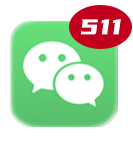
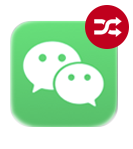
add random vx

Changed region(s): [[0.5113, 0.0268, 0.9925, 0.349]]

diff --git a/utils.js b/utils.js
@@ -1,0 +1,24 @@
+
+/* When the user clicks on the button,
+toggle between hiding and showing the dropdown content */
+function showDD() {
+  document.getElementById("myDropdown").classList.toggle("show");
+}
+function randomVx () {
+  		var items=['4559974829656415','4597692016366069','4595937031491205','4594105130682426','4590670364552301','4586890688729138','4585777566845049','4585621727484842','4582867449683182','4580305589774023','4579633901079340','4558200030630605','4557907380930701','4557794135509527','4556111556644636','4555322099764117','4552091177593052','4550964810359278','4548101404628915','4548085017746680','4546972927394505','4546611055961159','4545545572455506','4545197859674645','4544802803160624','4544648661438239','4543725680996198','4543034441613589','4541937942797151','4540078817548855','4536752045299424','4535774496950625','4534318896778157','4533416135498423','4532878597950344','4531752913346843','4530664826744150','4530234331764901','4528838530568005','4528385088292166','4527785802730746','4525990824578760','4524521564568653','4523458044407425','4523084977494225','4522719927206218','4521288725369626','4520206356392399','4519484986368207','4519416900209368','4518752747799838','4518010435943772','4516114174153366','4515125996491149','4513319841887167','4512450785971263','4511487845217879','4510412945931958','4510038620842489','4508239591542923','4508224717489013','4508185283468884','4506789749657235','4506599244698949','4505332712084186','4504500658223080','4503192534758672','4503124633186220','4502747921919899','4502280878307928','4500585460673516','4500227086337761','4499002861478791','4498721352146357','4497931275468084','4496991964460815','4495195082975316','4494670577509121','4494434076964515','4492627325851829','4491891456463977','4489279306748657','4486333978062886','4486114117113837','4485010876878676','4484266551483508','4481746084809581','4481676023596874','4481633199295315','4479863869860474','4476598004591920','4476300854658173','4476249889794908','4473309251433805','4467213220004048','4462068415676650','4461381707220440','4460936758429436','4457150300394187','4455607790466174','4453515647189589','4452295545149661','4452064127829924','4449509583537907','4447335029230690','4445896534578442','4445144424186183','4445110126808894','4440811435919320','4440774261283783','4439321706407442','4438658750918400','4434668931727712','4433595864723797','4431737511952006','4431692288715509','4430616709354039','4429160451225483','4427986352798104','4427788477639136','4427620076538008','4425835266452487','4424859091981112','4422306815971493','4420549763343366','4419753265006041','4419054041217183','4416157748064849','4415447564392318','4414334099052656','4412925588459044','4412869879483661','4412527481465187','4412080771678068','4410714133440571','4410364462194337','4408199974947132','4407466878480972','4406049941096826','4402783551244615','4401307840484740','4400586739203697','4399523000399459','4399184893013526','4398968349870272','4398838787392953','4398794617350920','4397942670838808','4396910036843605','4396561448142788','4395497605289776','4395179941181995','4393012022912645','4392614184599345','4391909306512666','4391546767911224','4390835132952352','4390108432040180','4388653453045779','4388264704290976','4386414902779206','4385340720277866','4385338116291272','4385055768455257','4384645712019483','4382865011272712','4380849052910170','4380638402234089','4379204801790629','4378504856089529','4378364406390634','4377780583959564','4375609662842753','4373732959109860','4372369986294687','4372231712766179','4371954872011341','4370868819460822','4370569749413273','4370558495878865','4369780121251333','4367938947655158','4367567298638977','4365308364528002','4364220663460650','4363622718880132','4362787800785800','4360955108850022','4360610961247652','4359684184391305','4358578058260450','4357124794585731','4354209950023613','4354175817203827','4353508998804818','4352421054271892','4350530547927051','4350127231541809','4345857178224500','4344421505679036','4342930531654710','4340101091277287','4338523811204965','4336707153677904','4336704418904180','4335917194257029','4335321301295164','4333211204684970','4330664793167790','4330307484310304','4330227720553382','4329436964850758','4329055412672909','4328820855410756','4327965473497237','4327761692974808','4326697127716892','4325234062608881','4323801883274516','4323397301575229','4322997085123747','4321577023212909','4320868592978799','4319660462285028','4319420434277247','4317996044847520','4317084747474386','4316003162624889','4314967668705730','4313655052740135','4313415037731848','4312469252324530','4311791796384908','4310391859419621','4309599294696291','4307730569070938','4307449345151748','4306253553266960','4305267275042105','4303471412495090','4302003113038006','4299858925577510','4299086339353408','4297249531439880','4296240919142022','4295493742057421','4295463236438207','4293666811825191','4292575055722828','4291481068066042','4290806300383408','4290253356854479','4289742264566957','4289675168890481','4287903402120166','4286818449428723','4284287861858373','4283835325631638','4281726781798173','4281364884463845','4280546693022525','4278854082373610','4277012740495572','4275216408402947','4274478492056101','4273435201290747','4273392083677225','4271896834532445','4270844462765014','4269429618987697','4268663810765890','4267582155051641','4266911057089563','4266178106452674','4265369063458646','4264681637780541','4263921340673751','4263219255602899','4262431024322859','4261810246737259','4261808568535672','4261050599180568','4260364256197268','4260201790481442','4259889705083484','4259637736125478','4259593444307200','4258196425813872','4256747906183514','4256368611386547','4255951530188591','4254927125589025','4253470887920406','4252881014321612','4252395167351064','4252319552416439','4252030786340528','4250799863326700','4250495067068520','4248416454341170','4248020063266557','4246601088627844','4245814261972510','4245508165923996','4245422048837932','4243644200905731','4243643194173391','4243509814527808','4243274594528492','4241857179310545','4241126221177135','4240795483113146','4240029406843961','4239680239091045','4239657921370570','4238287604421474','4238286907954420','4238279090298850','4237849245063757','4236735682580490','4236067327990303','4235325909505951','4234942440932264','4234252499255902','4233505011922388','4232762862831567','4231710268417730','4231300426847355','4230955051326047','4229898337781296','4227592900590736','4227591345131928','4227363250369966','4226931170191786','4226929152224244','4226896038922744','4226277848658139','4225895343921332','4225868207051235','4225220178482068','4223388392557875','4222281783912546','4221877985629586','4220839119716048','4219746842530869','4219053650822700','4217580002645625','4217214384489303','4216149463656167','4214332449956665','4212903336640033','4212039733805460','4211784308966178','4211029145868697','4209604600303763','4208850872292970','4208116692336192','4207385209634947','4206612119662452','4206011210089412','4205248761006036','4204166962102137','4203099835445637','4200583869130322','4200466621078541','4200210701759812','4199468636900833','4199080206571536','4198381506953517','4196213664226959','4195503317292629','4194028130636006','4192199136498044','4191133711553585','4190396093308703','4188590176922651','4188482928641272','4187896422179942','4185709734408321','4185220070659060','4184564760548895','4184216042192294','4183167064278872','4182449254154957','4181705076365508','4180598740124221','4179165801939038','4177749821629011','4177629538009469','4177365598887665','4175563582992074','4174671115097430','4174499568016077','4174297188746708','4173983504937279','4172598143870429','4172489414081181','4170461249840165','4169047832405445','4167939093214152','4167579247627638','4166869453874541','4166467291363561','4163817430129881','4163816557810299','4163181683451222','4161743918319625','4160696109081049','4159252798698685','4158840486224763','4158730436309404','4158108923900982','4157452234835817','4156924797298727','4156240097434493','4155890863230865','4155270102380218','4154139321478765','4152713295455404','4151986091273677','4151638178645707','4150509721633044','4150496346233061','4148889101455706','4147585470298587','4146581865256084','4145796293556719','4145023513595783','4143925151539928','4141862904505569','4141480648507982','4140029163165524','4139692653975802','4138944901856766','4138578383000274','4138216783163394','4137478191117004','4136765898477355','4135666578836561','4135317139504332','4134976334910463','4133858246850856','4133456852254788','4132054445069775','4130619816095669','4129519012808238','4128822376772931','4128068543397319','4127697016143424','4126993907741870','4125907709289317','4124840916585728','4124466139036444','4123720123653756','4122876124611756','4118669128581267','4118284788428347','4117536477580749','4115763646411926','4114913104353112','4114658857696842','4114328573145339','4112363856103857','4110321209233968','4107047094643343','4106310624110183','4106007850348448','4105101678965378','4104139526726253','4102016236063452','4101608498908189','4097619078253718','4095973950852365','4094026728166680','4092581891544089','4091445956531748','4091124392530074','4090968720263695','4090607293673795','4089531646466287','4087467139212794','4086383347488906','4085308667194737','4084931321342874','4083839699696599','4082427103942839','4081293425204083','4077339685958987','4076262736032650','4074424607681720','4073988143808108','4073018655109921','4072879484573149','4070840561734085','4069365441689047','4069021508858380','4068632243511961','4068291439327496','4067558426299014','4067557918779090','4066847969823337','4066131285150289','4065752715282847','4064899183038324','4064504470032921','4063909477968207','4063878477844563','4063239261864169','4063052829282043','4062106594972044','4061416925307311','4060633009358114','4059531808003781','4058876401610532','4055951742965935','4054098141302950','4053414269375039','4053412959974297','4048344105832081','4047820203304446','4044724266175963','4044007861968939','4040787719064687','4038576431264579','4036784604812000','4032902750158922','4031956158662588','4030590551927801','4029896264575997','4027291573005079','4025512538293065','4024806501855450','4024064739389033','4023357081205194','4022234605862096','4021579811605901','4020374893157689','4020084105776723','4018999697942678','4018308703601549','4018173504176526','4016083653911489','4015030120625172','4013973253046401','4013889039060990','4013854633026753','4013219959592688','4012894586725254','4011393415480743','4011005769658714','4010650651167721','4009595279691663','4009062108816955','4008454765080089','4008355142466021','4007408810873304','4006686517224715','4006289090526860','4004844605987788','4004147827173514','4003384849487406','4001487707910408','4001151860455265','4000880300500750','4000534211526711','3999468758609785','3999077224302146','3997975283485322','3997272309636259','3996163264239507','3995772540787434','3995284977939506','3994931976552081','3994619404014342','3994346665323511','3994293288441974','3993254145989936','3992430145433717','3990998620636159','3990490163066143','3989578002123357','3989266738373627','3988154694244301','3988089829192979','3987822417238926','3987797347779058','3986679318125455','3985997857462486','3984557012916330','3983492892644285','3982703542259988','3981929080641221','3981617112041049','3981278170461965','3979502105227232','3979337545321060','3978979154919645','3977246944927711','3975901195263981','3975163420325556','3974755713251993','3974359535713837','3974065817292498','3972926207989263','3971857940205408','3970677465908844','3970001574244198','3968705534765274','3967484123646627','3967407414436854','3967158230245270','3966858518116213','3966406339067376','3965588617056671','3964126470004309','3963714090398487','3962352501591767','3962048339121177','3961382149693865','3960995690379480','3960122290174137','3959440790923118','3959410683913010','3958119103063636','3957991290083016','3956601821766662','3955447713056694','3954836807896835','3954387124214957','3953793525848953','3951613057524795','3951085019945455','3950478125031378','3948553233262754','3948272836594452','3947621217383401','3947255788276272','3946894974144964','3945429136065386','3944598771987366','3944002207876755','3943221278970808','3942496695818292','3941731025993599','3940341075300360','3940256593493805','3940006135081407','3939985578546952','3939579087664524','3939091546471167','3938209408879425','3937845544405429','3937467906545208','3937113340745843','3936389223857006','3935916437488591','3935287186773837','3934789830501548','3934569802062731','3934357846621285','3934216733261984','3933918493620914','3933900236031786','3933838650682833','3933491576096591','3933081427297659','3932593240393045','3932356479735564','3932019757223452','3931297401214373','3930941279902240','3930938830246455','3930603642600348','3930120366949177','3929789880313480','3929741679222473','3929167118968685','3929090312574501','3928789371773436','3928386613008512','3928042919567570','3928025152397100','3926904472170797','3926233521763789','3925145301220654','3924558492923662','3924412400748485','3924093331633492','3922909666088857','3920348641134036','3919641568660633','3918198468108602','3918197545465964','3917476821813199','3916805321535224','3916432406386310','3916103329703310','3913946089756582','3913203014337756','3912032942248020','3911014648814103','3910628261444827','3910289323615757','3909435040383203','3909108715391448','3908339245198097','3907748909265872','3907247652340817','3906917418089182','3906670729670751','3906595022886431','3905618681170446','3904460637662286','3904127945675793','3902831154923689','3901871011412497','3900504155589082','3899396464605764','3897908593906023','3897794349393560','3897790201110368','3896892612050020','3893074910883574','3891803578836435','3890988450096887','3889948828348800','3889469465601855','3888454418726152','3888129385265601','3887048987080759','3884887939397615','3883818119140218','3883478938156181','3883157961456974','3881769348460759','3876584559698121','3875432598435806','3874785727130072','3874781692379594','3874690348901628','3871029451262606','3870758419788549','3870444085699036','3869945651569200','3869345254131978','3869303516242150','3867900165403913','3867032732939870','3866075844696568','3864982179675853','3864051199073705','3862860331611675','3858776732296004','3855902530846656','3855587937111316','3852288001206719','3842102762908281','3838920612097261','3836971744814029','3833133550327975','3832894344261825','3832557776860603','3832022046993571','3830914951454855','3830559744525716','3830398645437866','3830398532095277','3829814304015457','3828398805644897','3827271238784988','3826940299597773','3826415767730416','3826133428343235','3825330495859983','3824247610828267','3821047164430493','3820732708652268','3820049124597479','3816414605853191','3814237946576674','3812773777408153','3807384810240293','3802262486797920','3800854810983068','3798664227347300','3798567459803950','3797942425592669','3797925362938274','3797411862248294','3796524276723375','3796128778934078','3793998089214046','3793222973699750','3792173575107240','3786703871454722','3786015431358725','3784908898156205','3780563469013710','3779117322894995','3777294001086054','3774442780026131','3770331682185912','3766821994158038','3766819548661860','3760613862157946','3759873864579551','3758846969542744','3758845602196638','3754841501758044','3752643849178605','3751160852420922','3746494039438100','3742774069162009','3738156396333718','3737797980186937','3733429684737883','3731993281779168','3730586520328949','3726587603775938','3726445261638115','3724731792058784','3723634201722807','3720751934616294','3720124693307914','3718125566330683','3713350288845715','3709509338361454','3701182239490551','3700867800904298','3697227208192511','3694660100869503','3693911383543076','3692862791682761','3691798860372605','3688505806818129','3684810251831676','3684496060452013','3683102171397946','3672047697511697','3670788794413769','3670050207063825','3668254217740937','3656792393604256','3636647415091363','3633265375877850','3611983934969936','3602615193243346','3598501600320528','3571328240235023','3570583298132904','3569934355776755','3569130211091722','3566958002284172','3543194316328289','3543071884700708','3504048731106353'];
+    var item = items[Math.floor(Math.random() * items.length)];
+    return "https://m.weibo.cn/detail/"+item;
+}
+// Close the dropdown menu if the user clicks outside of it
+window.onclick = function(event) {
+  if (!event.target.matches('.dropbtn')) {
+    var dropdowns = document.getElementsByClassName("dropdown-content");
+    var i;
+    for (i = 0; i < dropdowns.length; i++) {
+      var openDropdown = dropdowns[i];
+      if (openDropdown.classList.contains('show')) {
+        openDropdown.classList.remove('show');
+      }
+    }
+  }
+}

diff --git a/index.html b/index.html
@@ -5,7 +5,8 @@
         <meta content="width=device-width, initial-scale=1, maximum-scale=1, user-scalable=0" name="viewport">
         <link rel="shortcut icon" href="favicon.ico" type="image/x-icon">
 		<title>Tako's Arcade</title>
-		<link rel="stylesheet" href="index.css?v=2" type="text/css">
+        <link rel="stylesheet" href="index.css?v=2" type="text/css">
+        <script type="text/javascript" src="/utils.js"></script>
 </head>
 <body style="background-color:#890822;">
     <script type="text/javascript">
@@ -21,26 +22,40 @@
                 document.title = "Tako's Arcade";
             }
         }
+        function goTo(src) {
+            document.getElementsByTagName('ol')[0].style.display = "none";
+            document.getElementsByTagName('ol')[1].style.display = "none";
+            document.getElementsByTagName('img')[0].src = "app/home.png";
+            document.getElementById('home-browser').src = src;
+            document.getElementById('home-browser').style.display = "block";
+        }
+        function goHome() {
+            document.getElementsByTagName('ol')[0].style.display = "grid";
+            document.getElementsByTagName('ol')[1].style.display = "grid";
+            document.getElementsByTagName('img')[0].src = "app/0511.png";
+            document.getElementById('home-browser').style.display = "none";
+        }
     </script>
 	<div class="container">
 		<div class="status-bar">
-            <div class="time"><img src="app/0511.png" /></div>
+            <div class="time" onclick="goHome();"><img src="app/0511.png" /></div>
             <div class="tako"><img src="app/tako.png" /></div>
 			<div class="battery">
 				
 				<div class="battery-body"></div>
 				<div class="battery-head"></div>
 			</div>
-		</div>
+        </div>
+        <iframe allow="autoplay" width=320 height=440 style="display:none;margin:auto auto;height:94vh;width:95vw;" id="home-browser"></iframe>
 		<ol>
 			<li>
-				<a href="https://weibo.com/u/3050783091"><img src="app/weibo.png" /></a>
+				<img src="app/weibo.png" onclick="goTo('https://m.weibo.cn/u/3050783091')"/>
 			</li>
 			<li>
-				<a href="https://space.bilibili.com/605599077"><img src="app/bilibili.png" /></a>
+				<a href="https://m.bilibili.com/space/605599077"><img src="app/bilibili.png" /></a>
 			</li>
 			<li>
-				<a href="https://m.oasis.weibo.cn/v1/h5/share?uid=3050783091"><img src="app/oasis.png" /></a>
+				<img src="app/oasis.png" onclick="goTo('https://m.oasis.weibo.cn/v1/h5/share?uid=3050783091')"/>
 			</li>
 			<li>
                 <a href="https://v.douyin.com/JTFXD3W/"><img src="app/douyin.png" /></a>
@@ -63,20 +78,25 @@
 			<li>
 				<img src="app/more.png" />
 			</li>
-		</ol>
+        </ol>
+        
+        <!-- <div class="arrow_up">
+            <span></span>
+            <span></span>
+        </div> -->
 		<div class="bottom-nav">
 			<ol>
 				<li>
 					<img src="app/phone.png" onclick="play()"/>
 				</li>
 				<li>
-					<img src="app/wechat.png" />
+					<img src="app/wechat.png" onclick="goTo(randomVx());"/>
 				</li>
 				<li>
 					<a href="https://baike.baidu.com/item/%E5%BC%A0%E8%AF%AD%E6%A0%BC"><img src="app/safari.png" /></a>
 				</li>
 				<li>
-					<a href="/music"><img src="app/music.png" /></a>
+					<img src="app/music.png" onclick="goTo('//music.163.com/outchain/player?type=0&id=6586163245&auto=1&height=430')"/>
 				</li>
 			</ol>
 		</div>

diff --git a/index.css b/index.css
@@ -1,6 +1,7 @@
 body{
 	font-family: '-apple-system','HelveticaNeue';
 }
+
 .container {
 	width:calc(100vw - 16px);
 	height:calc(100vh - 16px);
@@ -13,6 +14,7 @@ body{
 	height: 30px;
 }
 .time {
+	color: white;
 	position:fixed;
 	left:0;
 	margin-left:5px;
@@ -20,10 +22,6 @@ body{
 .tako {
 	position:fixed;
 	right:35px;
-}
-.time > img, .tako > img {
-	width: 20vw;
-	max-width: 108px;
 }
 .battery {
 	position:fixed;
@@ -80,13 +78,71 @@ ol.day-grid li {
 .bottom-nav {
 	background: #ffffff75;
 	border-radius: 30px;
-	margin-top: calc(100vh - 100px - 100vw)
+	margin-top: calc(100vh - 100px - 100vw);
+	/* position:fixed; */
+	/* bottom:5px;
+	height: 24vw;
+	max-height: 150px; */
 }
+.arrow_up{                  
+	position: absolute;
+	left: 50%;
+	bottom: 100px;
+	color: white;
+}
+.arrow_up span{              
+	position: absolute;
+	width: 20px;
+	height: 20px;
+	top: 10px;
+	transform: rotate(45deg);
+	-webkit-transform:rotate(45deg);
+	border-top: 1px solid white;
+	border-left: 1px solid white;
+	margin-left: -10px;
+	opacity: 0;
+	-webkit-animation: up 2s infinite;
+	animation: up 2s infinite;
+}
+.arrow_up span:nth-of-type(2){
+	top: 20px;
+}
+.arrow_up span:nth-of-type(1){
+	-webkit-animation-delay: .15s;
+	animation-delay: .15s;
+}
+@-webkit-keyframes up{   
+	0%{
+		opacity: 0;
+		-webkit-transform: translate(0, 0) -webkit-rotate(45deg);
+	}
+	50%{
+		opacity: 1;
+		-webkit-transform: translate(0, -20px) -webkit-rotate(45deg);
+	}
+	100%{
+		opacity: 0;
+	}
+}
+@keyframes up{
+	0%{
+		opacity: 0;
+		transform: translate(0, 0) rotate(45deg);
+	}
+	50%{
+		opacity: 1;
+		transform: translate(0, -20px) rotate(45deg);
+	}
+	100%{
+		opacity: 0;
+	}
+}
+
 @media screen and (min-width: 600px) {
 	.bottom-nav {
 		margin-top:0;
 	}
 	.battery {
-		top: 21px;
+		top: 15px;
 	}
 }

diff --git a/2048/index.html b/2048/index.html
@@ -7,16 +7,24 @@
 	<title>张语格2048</title>
 	<link rel="stylesheet" type="text/css" href="css/2048.css"/>
 	<link rel="stylesheet" type="text/css" href="css/main.css"/>
-	<!-- <script type="text/javascript"	src="js/jquery.min.js"></script> -->
+	<script type="text/javascript" src="/utils.js"></script>
+	<link rel="stylesheet" type="text/css" href="/menu.css"/>
 	<script src="https://cdn.bootcdn.net/ajax/libs/jquery/3.5.1/jquery.min.js"></script>
-	<script type="text/javascript"	src="js/main2048.js?v=1"></script>
 	<script type="text/javascript"	src="js/showanimation2048.js"></script>
 	<script type="text/javascript"	src="js/support2048.js?v=2"></script>
+	<script type="text/javascript"	src="js/main2048.js?v=1"></script>
 </head>
 
 <body>
 	<div id="loading" style="display: block;z-index: 1;width: 100vw;height: 100vh;">加载中...</div>
-
+	<div class="dropdown">
+		<button onclick="showDD()" class="dropbtn">Menu</button>
+		<div id="myDropdown" class="dropdown-content">
+			<a href="/">Home</a>
+			<a href="/wm">Watermelon</a>
+			<a href="/2048">2048</a>
+		</div>
+	</div>
 	<div class="container">
 		<div class="heading">
 			<div class="scores-container">

diff --git a/menu.css b/menu.css
@@ -1,0 +1,45 @@
+/* Dropdown Button */
+.dropbtn {
+	background-color: #bbada0;
+	border-radius:3px;
+  color: white;
+  padding: 16px;
+  font-size: 16px;
+  border: none;
+  cursor: pointer;
+}
+
+/* Dropdown button on hover & focus */
+.dropbtn:hover, .dropbtn:focus {
+  background-color: #ccc0b3;
+}
+
+/* The container <div> - needed to position the dropdown content */
+.dropdown {
+  position: relative;
+  display: inline-block;
+}
+
+/* Dropdown Content (Hidden by Default) */
+.dropdown-content {
+  display: none;
+  position: absolute;
+  background-color: #f1f1f1;
+  min-width: 160px;
+  box-shadow: 0px 8px 16px 0px rgba(0,0,0,0.2);
+  z-index: 1;
+}
+
+/* Links inside the dropdown */
+.dropdown-content a {
+  color: black;
+  padding: 12px 16px;
+  text-decoration: none;
+  display: block;
+}
+
+/* Change color of dropdown links on hover */
+.dropdown-content a:hover {background-color: #ddd}
+
+/* Show the dropdown menu (use JS to add this class to the .dropdown-content container when the user clicks on the dropdown button) */
+.show {display:block;}

diff --git a/linkup/index.html b/linkup/index.html
@@ -5,6 +5,8 @@
   <meta charset="UTF-8">
   <meta name="viewport" content="width=device-width, user-scalable=no, initial-scale=1.0, maximum-scale=1.0, minimum-scale=1.0">
   <meta http-equiv="X-UA-Compatible" content="ie=edge">
+  <script type="text/javascript" src="/utils.js"></script>
+  <link rel="stylesheet" type="text/css" href="/menu.css"/>
   <link rel="stylesheet" href="css/style.css">
   <title>张语格连连看</title>
 </head>
@@ -12,6 +14,14 @@
 <body>
     <div id="loading" style="display: none;z-index: 1;width: 100vw;height: 100vh;">加载中...</div>
     <div class="container">
+        <div class="dropdown">
+            <button onclick="showDD()" class="dropbtn">Menu</button>
+            <div id="myDropdown" class="dropdown-content">
+                <a href="/">Home</a>
+                <a href="/wm">Watermelon</a>
+                <a href="/2048">2048</a>
+            </div>
+        </div>
         <div class="heading">
             <p class="time"></p>
             <button id="help" class="btn" >help</button>

diff --git a/rhythm/index.html b/rhythm/index.html
@@ -3,10 +3,20 @@
 <head lang="en">
     <meta charset="UTF-8">
     <title>Game</title>
+    <script type="text/javascript" src="/utils.js"></script>
+	<link rel="stylesheet" type="text/css" href="/menu.css"/>
     <link href='https://fonts.googleapis.com/css?family=Poppins' rel='stylesheet' type='text/css'>
     <link rel="stylesheet" href="css/main.css" type="text/css">
 </head>
 <body>
+    <div class="dropdown">
+		<button onclick="showDD()" class="dropbtn">Menu</button>
+		<div id="myDropdown" class="dropdown-content">
+			<a href="/">Home</a>
+			<a href="/wm">Watermelon</a>
+			<a href="/2048">2048</a>
+		</div>
+	</div>
 	 <div class="desktop-required">
         <h1>Sorry!</h1>
         <p>To play this game you need a computer and a keyboard!</p>

diff --git a/2048/js/main2048.js b/2048/js/main2048.js
@@ -2,9 +2,9 @@ var board=new Array();
 var score=0;
 var hasConflicted=new Array();
 $(document).ready(function(){
-$("#loading").css("display","none");
-newgame();
-touch_move();
+	$("#loading").css("display","none");
+	newgame();
+	touch_move();
 });
 
 function newgame(){
